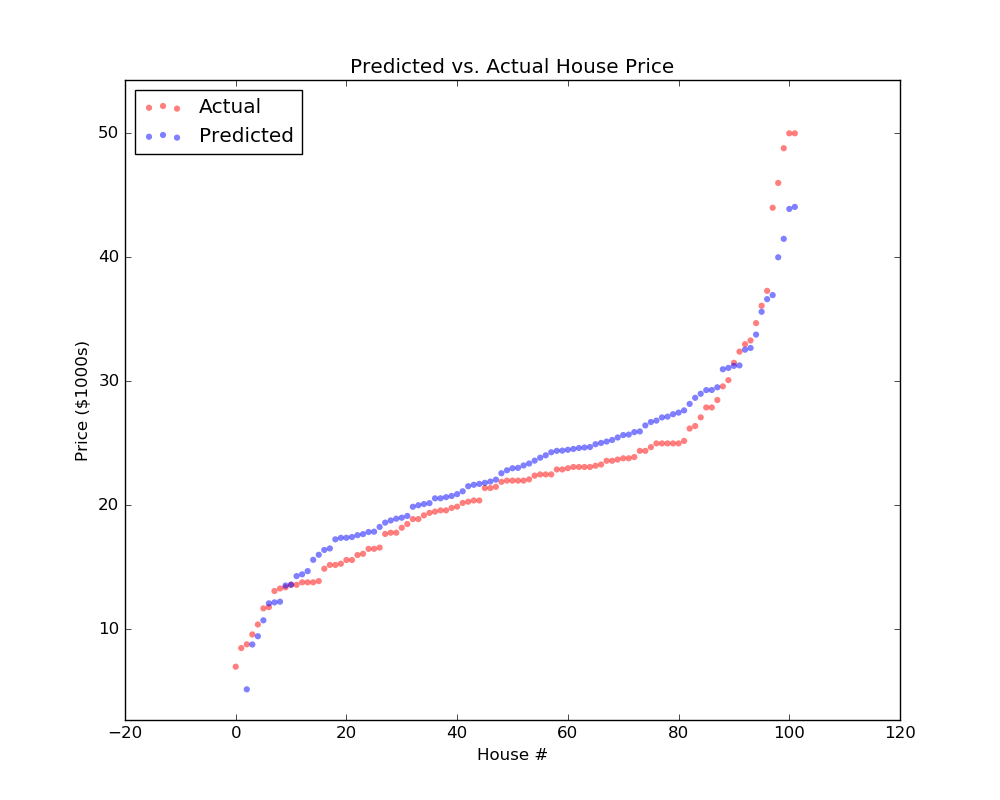
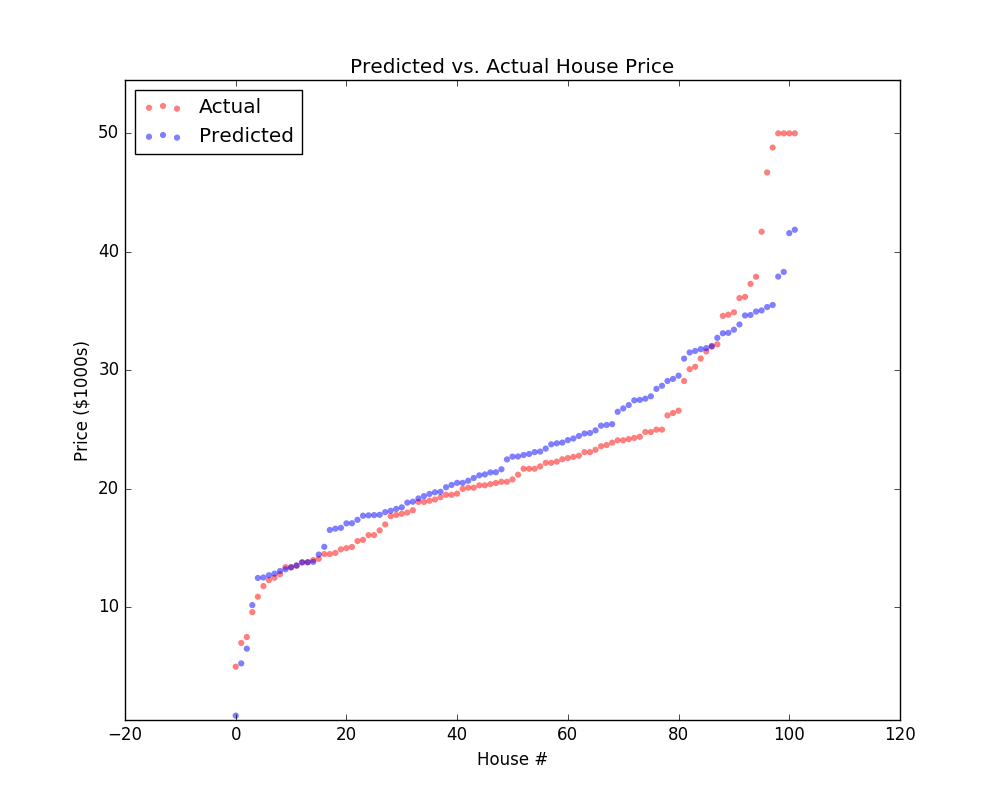
compare with/without normalization

diff --git a/ufldl/ex_in_python/ex1/ex1a_linreg.py b/ufldl/ex_in_python/ex1/ex1a_linreg.py
@@ -78,8 +78,8 @@ def optimizer(theta_init, X, y, iters=200):
 		theta_grad = gradient(theta, X_i, y_i)
 		theta = theta -  c * theta_grad.transpose()
                 loss_history.append(loss)
-                logging.info("iter: {:8d}\n\t\t\tloss: {:6f}".format(i, loss))
-                logging.info( '\t\t\tRMS error: {error}'.format( error=np.sqrt(np.mean( (linear_regression(theta, X_i, y_i) - y_i) ** 2))) )
+                #logging.info("iter: {:8d}\n\t\t\tloss: {:6f}".format(i, loss))
+                #logging.info( '\t\t\tRMS error: {error}'.format( error=np.sqrt(np.mean( (linear_regression(theta, X_i, y_i) - y_i) ** 2))) )
 	return theta, loss_history
 
 def load_data(input_file='housing.data'):
@@ -130,11 +130,11 @@ def gradient_descend(train_x, train_y, test_x, test_y, theta_init, sv_name,  ite
     			
     pred_prices = linear_regression(theta_final, test_x, test_y)
 
-    show_J_history(J_history)
+    #show_J_history(J_history)
     show_results(test_y, pred_prices, sv_name)
     return theta_final
     
-def scipy_optimize(train_x, train_y, test_x, test_y,  theta_init, sv_name, iters=200):
+def scipy_optimize(train_x, train_y, test_x, test_y,  theta_init, sv_name, iters=200, _method='bfgs'):
     J_history = []
     
     t0 = time.time()
@@ -142,7 +142,7 @@ def scipy_optimize(train_x, train_y, test_x, test_y,  theta_init, sv_name, iters
         fun=cost_function,
         x0=theta_init,
         args=(train_x, train_y),
-        method='bfgs',
+        method=_method,
         jac=gradient,
         options={'maxiter': iters, 'disp': True},
         callback=lambda x: J_history.append(cost_function(x, train_x, train_y)),
@@ -152,7 +152,7 @@ def scipy_optimize(train_x, train_y, test_x, test_y,  theta_init, sv_name, iters
     optimal_theta = res.x
 
     pred_prices = linear_regression(optimal_theta, test_x, test_y)
-    show_J_history(J_history)
+    #show_J_history(J_history)
     show_results(test_y, pred_prices, sv_name)
     return optimal_theta
 
@@ -173,15 +173,19 @@ if __name__ == '__main__':
     np.random.shuffle(dataset)
     
     
-    train_x, train_y, test_x, test_y = split_data(dataset)
+    orig_train_x, train_y, orig_test_x, test_y = split_data(dataset)
     
-    normlizer = featureNormlize(train_x,'stand')
+    normlizer = featureNormlize(orig_train_x,'stand')
 
-    train_x = normlizer.transform(train_x)
+    train_x = normlizer.transform(orig_train_x)
     train_x = np.hstack([np.ones((train_x.shape[0], 1)), train_x])
+
+    orig_train_x = np.hstack([np.ones((orig_train_x.shape[0], 1)), orig_train_x])
     
-    test_x = normlizer.transform(test_x)
+    test_x = normlizer.transform(orig_test_x)
     test_x = np.hstack([np.ones((test_x.shape[0], 1)), test_x])
+
+    orig_test_x = np.hstack([np.ones((orig_test_x.shape[0], 1)), orig_test_x])
     
     theta_init = np.random.rand(train_x.shape[1])
 
@@ -189,12 +193,22 @@ if __name__ == '__main__':
     #hand write gradient descend
     optimal_theta_1 = gradient_descend(train_x, train_y, test_x, test_y, theta_init, sv_name='./results/gt_vs_pred_1.png', iters=200)
     optimal_theta_2 = scipy_optimize(train_x, train_y, test_x, test_y, theta_init, sv_name='./results/gt_vs_pred_2.png',iters=200)
-
     optimal_theta_3 = normal_equation(train_x, train_y, test_x, test_y, sv_name='./results/gt_vs_pred_3.png')
+
     logging.info('Loss 1:{}'.format(cost_function(optimal_theta_1, train_x, train_y)))
     logging.info('Loss 2:{}'.format(cost_function(optimal_theta_2, train_x, train_y)))
     logging.info('Loss 3:{}'.format(cost_function(optimal_theta_3, train_x, train_y)))
+
+    optimal_theta_4 = gradient_descend(orig_train_x, train_y, orig_test_x, test_y, theta_init, sv_name='./results/gt_vs_pred_4.png', iters=200)
+    optimal_theta_5 = scipy_optimize(orig_train_x, train_y, orig_test_x, test_y, theta_init, sv_name='./results/gt_vs_pred_5.png',iters=200)
+    optimal_theta_6 = normal_equation(orig_train_x, train_y, orig_test_x, test_y, sv_name='./results/gt_vs_pred_6.png')
+
+    logging.info('Loss 4:{}'.format(cost_function(optimal_theta_4, orig_train_x, train_y)))
+    logging.info('Loss 5:{}'.format(cost_function(optimal_theta_5, orig_train_x, train_y)))
+    logging.info('Loss 6:{}'.format(cost_function(optimal_theta_6, orig_train_x, train_y)))
     
+    optimal_theta_7 = scipy_optimize(orig_train_x, train_y, orig_test_x, test_y, theta_init, sv_name='./results/gt_vs_pred_7.png',iters=200, _method='Powell')
+    logging.info('Loss 7:{}'.format(cost_function(optimal_theta_7, orig_train_x, train_y)))
     ###################
     ## Error and Plots ##
     ###################
